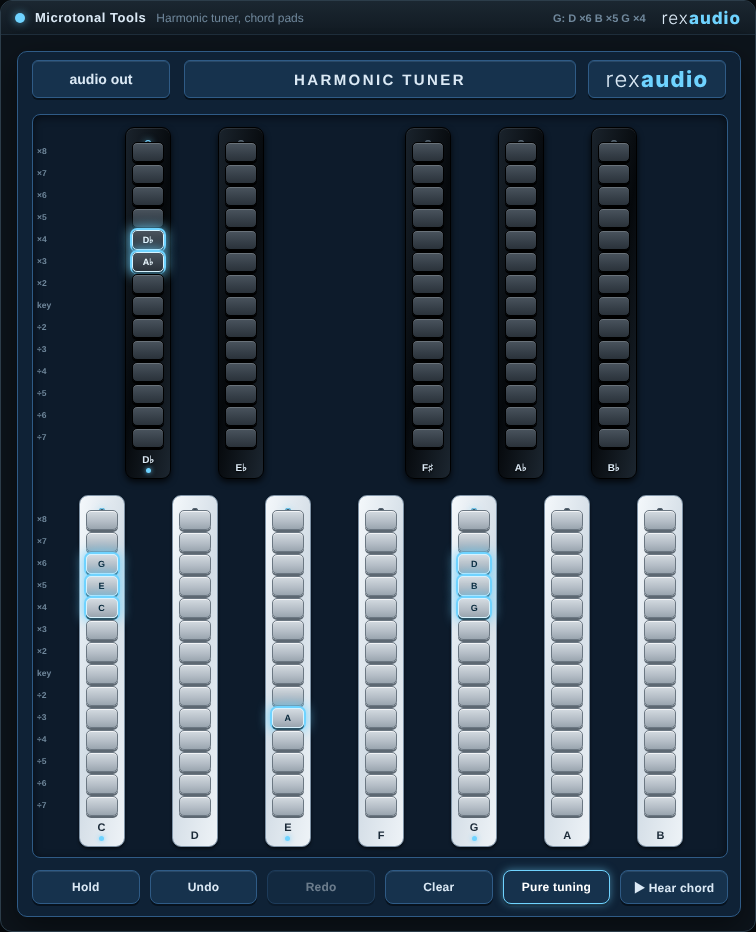
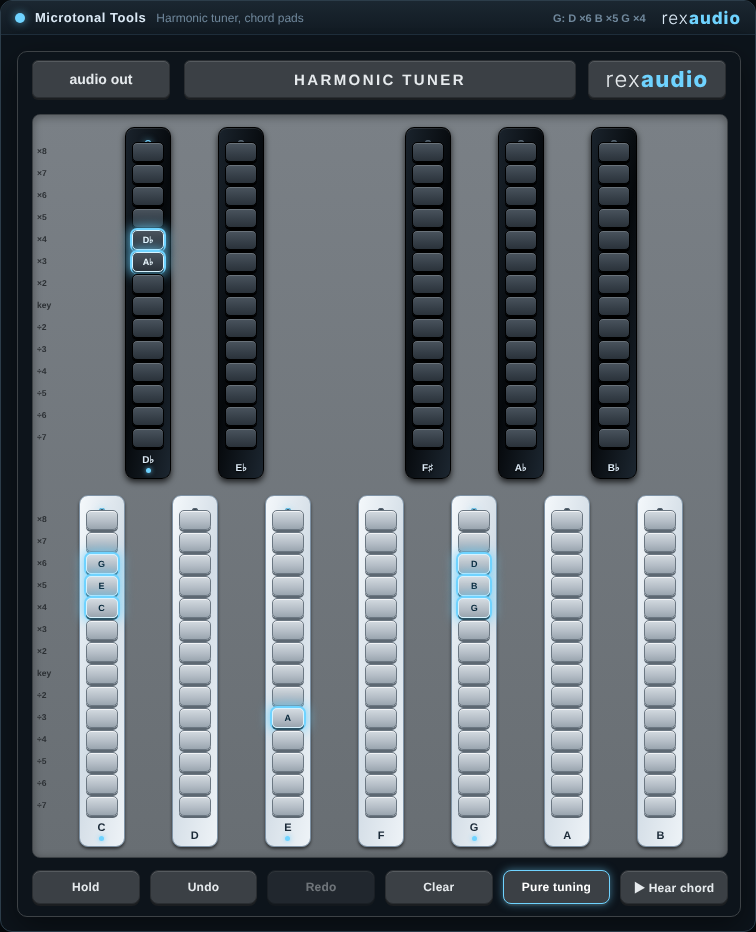
Chord pads page: mid grey hardware panel
Claude-Session: https://claude.ai/code/session_01Mq2GKQqtKS2SjuN1U1snRm

diff --git a/harmonic-tuner-pads.html b/harmonic-tuner-pads.html
@@ -100,16 +100,16 @@
   .tbtn[aria-pressed="true"] { color:#fff3d9; border-color:#e9b878; box-shadow:0 0 8px rgba(240,209,155,.45),0 2px 0 #211309; }
   .tbtn:disabled { opacity:.45; cursor:default; }
 
-  /* blue hardware, in the colours of the Tunings plugin: deep blue panel, plain white and black keys, grey pads that glow round the edge when picked */
-  #mod { background:#0f2236; border-color:#2f5b86; background-image:none; }
+  /* grey hardware with the Tunings plugin's blue light: mid grey panel, plain white and black keys, grey pads that glow round the edge when picked */
+  #mod { background:linear-gradient(180deg,#6d7378,#5a6065); border-color:#3d4246; background-image:none; }
   #mod::before { display:none; }
-  .tpanel.brand, #mtitle, .tbtn { background:#16324d; background-image:none; border-color:#2f5b86; color:#dbe9f5; text-shadow:none; box-shadow:0 2px 0 #07121d, inset 0 1px 0 rgba(160,210,255,.14); }
+  .tpanel.brand, #mtitle, .tbtn { background:#3b4045; background-image:none; border-color:#2a2e32; color:#e6eaed; text-shadow:none; box-shadow:0 2px 0 #1b1e21, inset 0 1px 0 rgba(255,255,255,.14); }
   .tpanel.brand b { background:none; -webkit-background-clip:border-box; background-clip:border-box; color:#6fd3ff; }
-  #mtitle { color:#dbe9f5; }
-  .tbtn:hover { color:#fff; border-color:#6fd3ff; } .tbtn[aria-pressed="true"] { color:#fff; border-color:#6fd3ff; box-shadow:0 0 8px rgba(111,211,255,.5),0 2px 0 #07121d; }
-  #dock { background:#0d1b2b; border-color:#2f5b86; box-shadow:inset 0 2px 8px rgba(0,0,0,.55); }
+  #mtitle { color:#e6eaed; }
+  .tbtn:hover { color:#fff; border-color:#6fd3ff; } .tbtn[aria-pressed="true"] { color:#fff; border-color:#6fd3ff; box-shadow:0 0 8px rgba(111,211,255,.5),0 2px 0 #1b1e21; }
+  #dock { background:linear-gradient(180deg,#7a8086,#686e73); border-color:#3d4246; box-shadow:inset 0 2px 8px rgba(0,0,0,.35); }
   #dock::before { display:none; }
-  .rl, .rl.r { color:#6f879b; }
+  .rl, .rl.r { color:#2b2f33; }
   .key.w { background:linear-gradient(100deg,#f4f8fb,#d3dde6 50%,#eef3f7); border:1px solid #7f93a6; box-shadow:0 2px 3px rgba(0,0,0,.55); }
   .key.b { background:linear-gradient(100deg,#1a232c,#05080b 50%,#1c2630); border:1px solid #000; box-shadow:0 3px 6px rgba(0,0,0,.75), inset 0 1px 0 rgba(255,255,255,.1); }
   .key.w .lb { color:#1b2a38; } .key.b .lb { color:#dbe9f5; }
